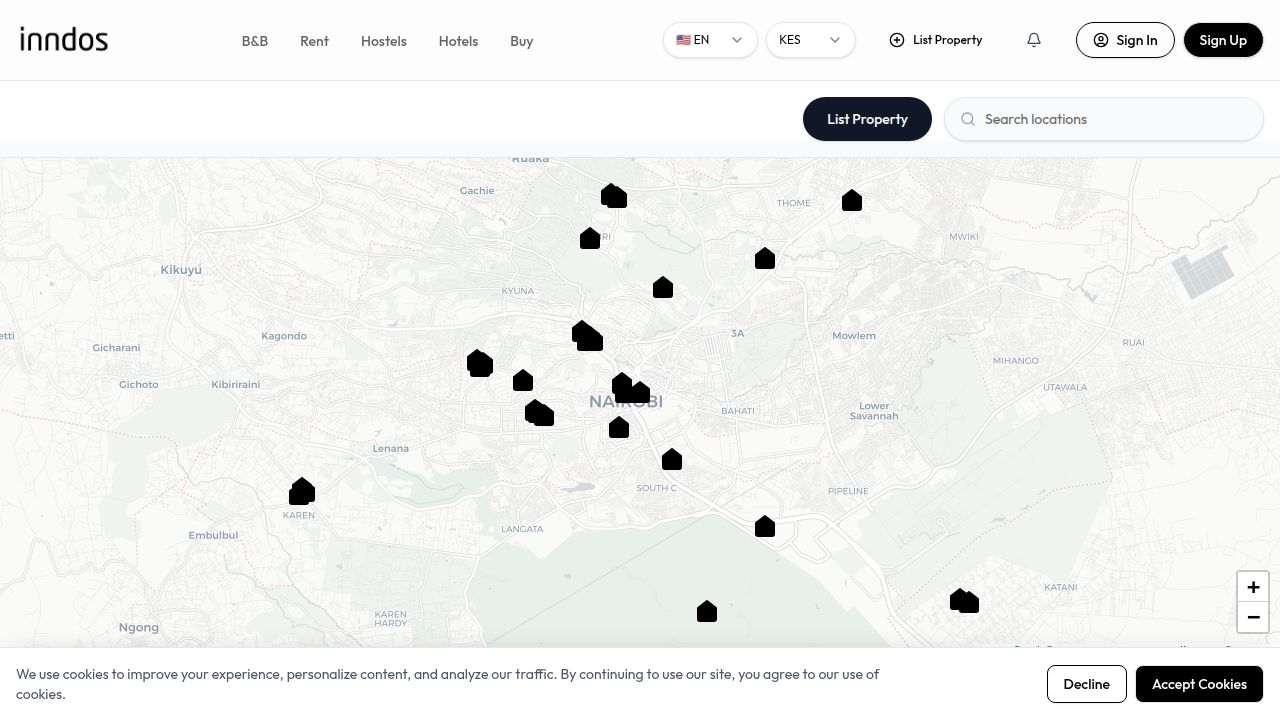
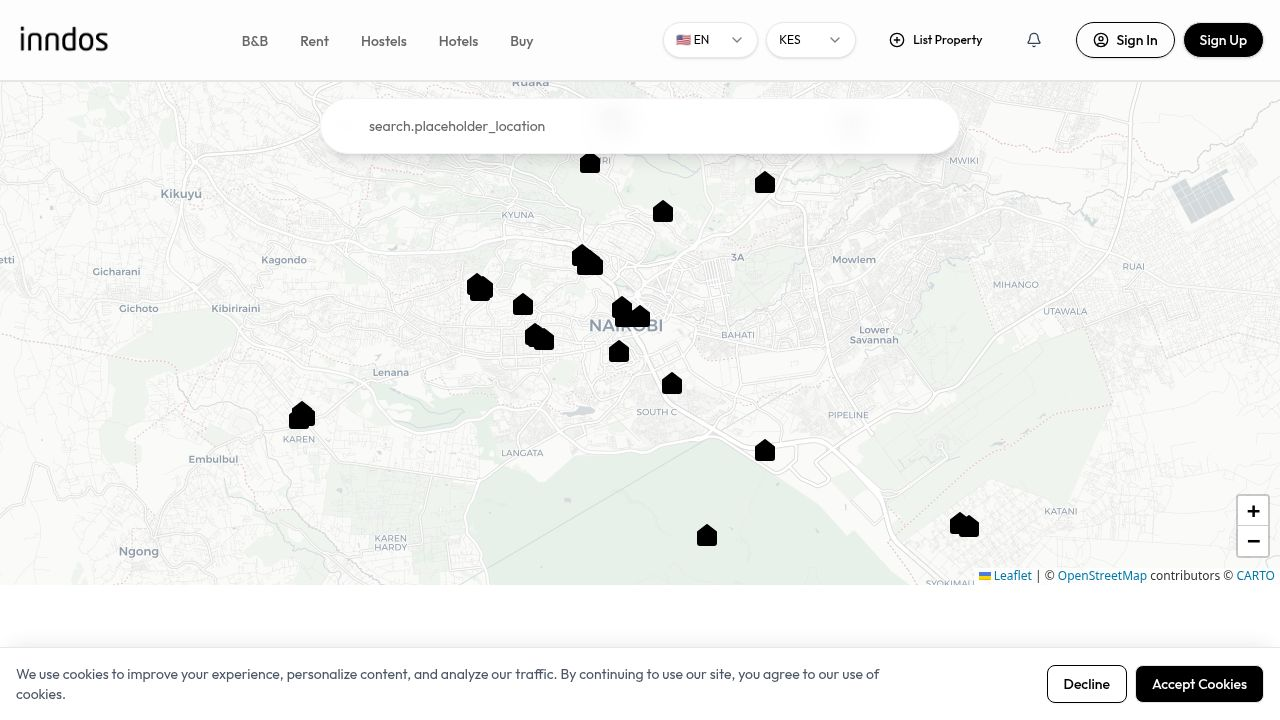
Published your App
Replit-Commit-Author: Deployment
Replit-Commit-Session-Id: 46db9c7c-72d3-488c-bea2-f73e3d7ad21d
Replit-Commit-Checkpoint-Type: full_checkpoint
Replit-Commit-Event-Id: af11ced9-75f7-4dd0-b78b-0c55f6cd26f6
Replit-Commit-Screenshot-Url: https://storage.googleapis.com/screenshot-production-us-central1/14b22c6c-04e0-4206-89e6-db9a136f81d4/46db9c7c-72d3-488c-bea2-f73e3d7ad21d/9JPBgUg
Replit-Commit-Deployment-Build-Id: f6c6f743-c024-4f97-8ffb-993f7336b2ae
Replit-Helium-Checkpoint-Created: true

diff --git a/client/src/pages/Home.tsx b/client/src/pages/Home.tsx
@@ -39,25 +39,21 @@ export default function Home() {
     <div className="min-h-screen bg-gray-50">
       <Navbar />
       
-      <div className="bg-white pt-4 pb-0">
-          <div className="container mx-auto px-4">
-              <div className="flex flex-col md:flex-row items-center justify-between gap-4 mb-4 w-full">
-                 {/* Search Bar */}
-                 <div className="flex w-full items-center justify-center py-2">
-                    <div className="relative w-full max-w-2xl">
-                      <Search className="absolute left-3 top-1/2 -translate-y-1/2 h-4 w-4 text-gray-400" />
-                      <Input 
-                        placeholder={t('search.placeholder_location') || "Search locations..."} 
-                        className="w-full pl-10 pr-4 h-12 bg-white border-gray-200 rounded-full shadow-sm focus:ring-primary focus:border-primary transition-all text-base"
-                      />
-                    </div>
-                 </div>
-              </div>
-          </div>
-          </div>
+      
 
       {/* Map Section replacing Hero */}
       <section className="relative h-[70vh] w-full bg-gray-100 border-t">
+
+      {/* Floating Search Bar */}
+      <div className="absolute top-4 left-1/2 -translate-x-1/2 z-[400] w-full max-w-2xl px-4 pointer-events-none">
+        <div className="relative w-full pointer-events-auto">
+          <Search className="absolute left-4 top-1/2 -translate-y-1/2 h-5 w-5 text-gray-500" />
+          <Input 
+            placeholder={t('search.placeholder_location') || "Search locations..."} 
+            className="w-full pl-12 pr-4 h-14 bg-white/95 backdrop-blur-md border border-gray-200/50 shadow-lg rounded-full focus:ring-2 focus:ring-primary/20 focus:border-primary transition-all text-base"
+          />
+        </div>
+      </div>
         <div className="absolute inset-0 z-0">
           <PropertyMap properties={filteredProperties} />
         </div>
